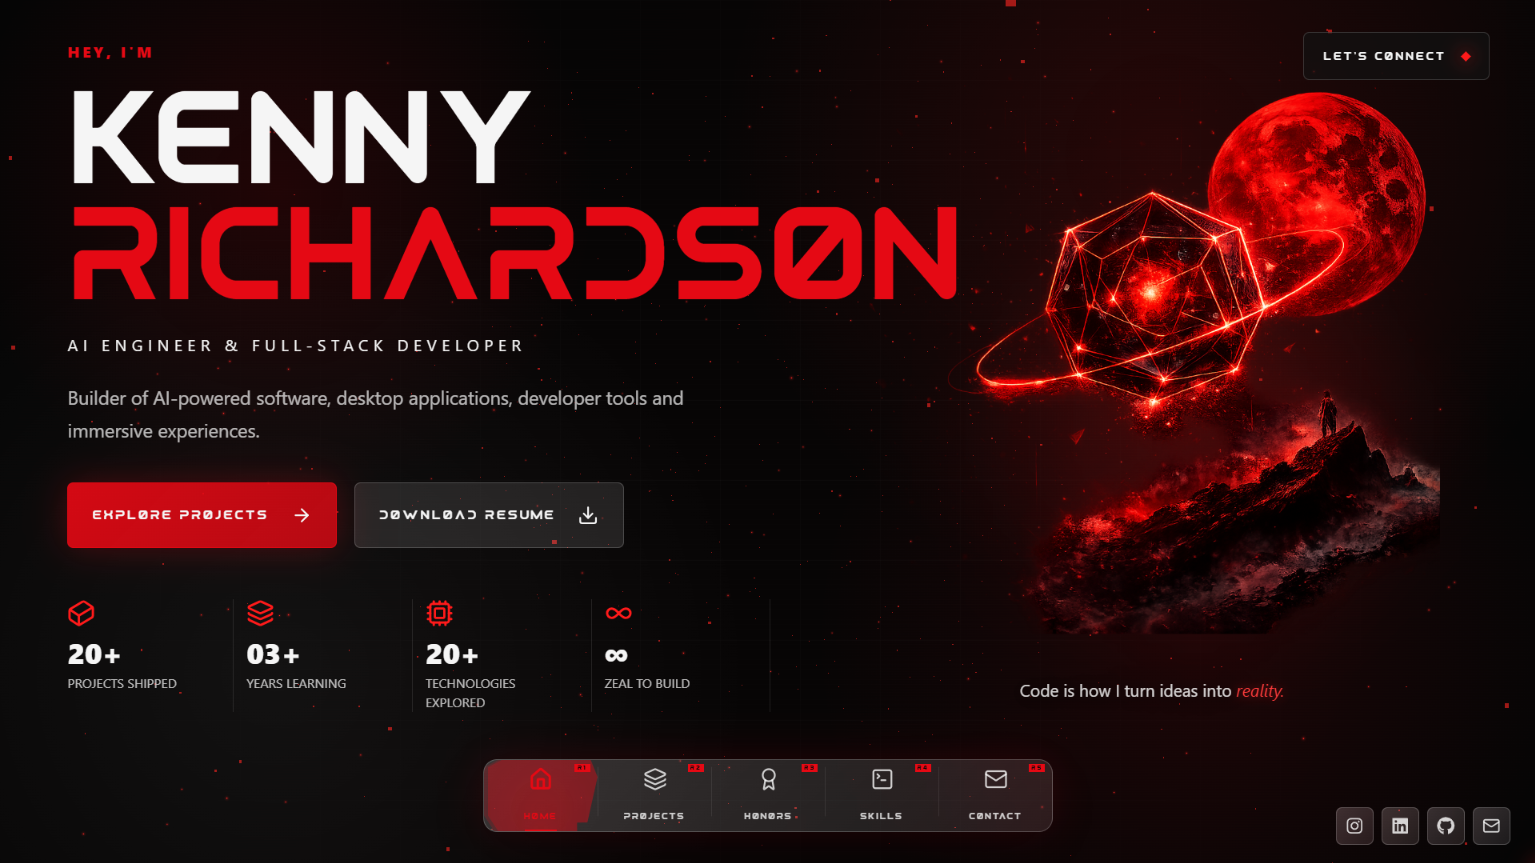
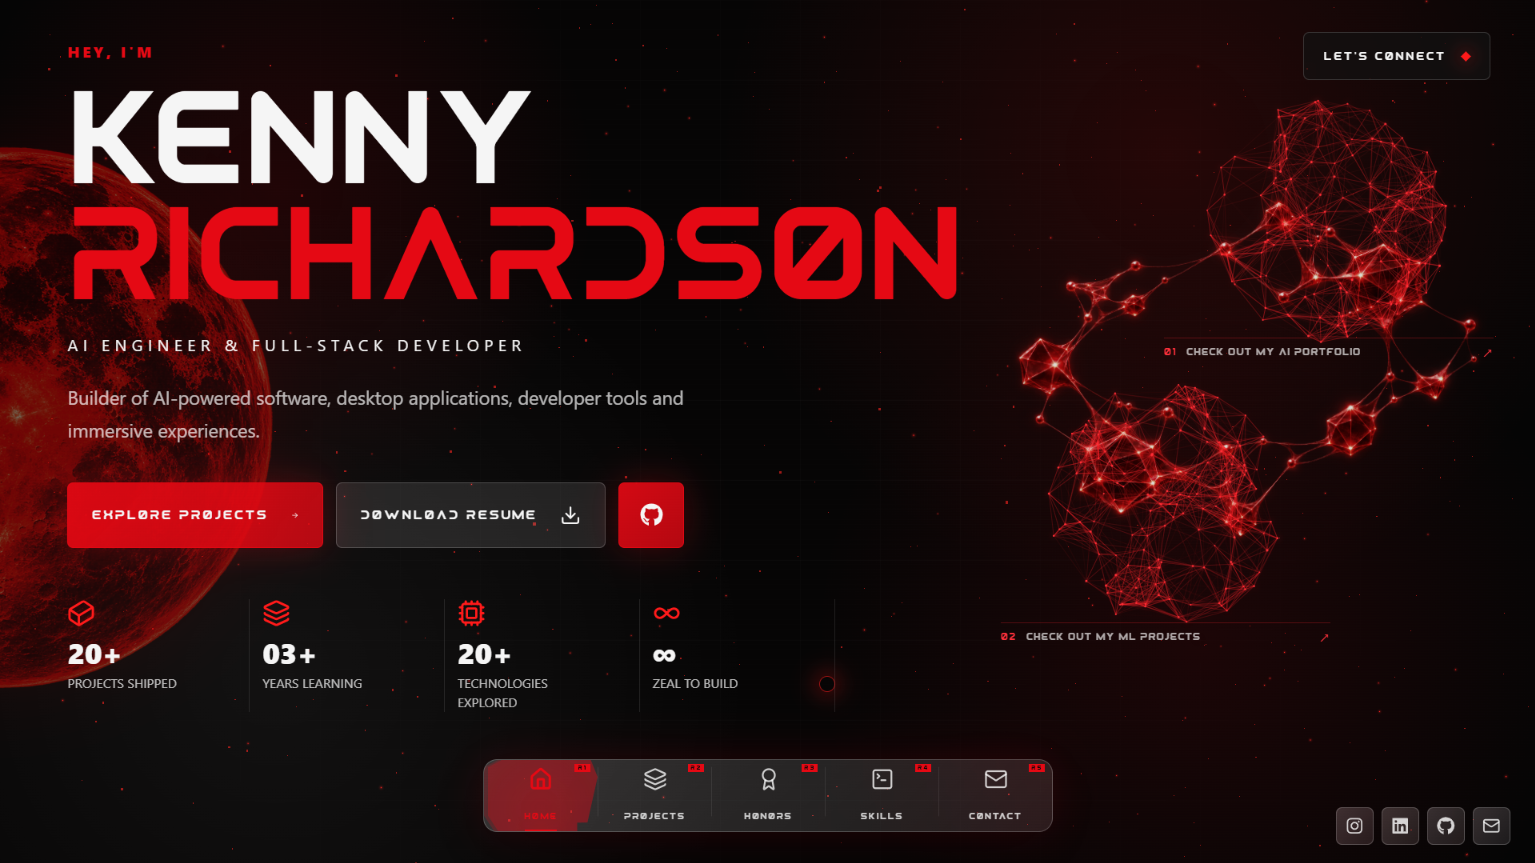
feat(ui): overhaul

diff --git a/src/pages/Nexus.tsx b/src/pages/Nexus.tsx
@@ -5,6 +5,7 @@ import { ShuffleText } from "../components/ShuffleText";
 import type { PageId } from "../data/content";
 import { NeuralLink } from "../components/NeuralLink";
 import redMoon from "../assets/redmoon.png";
+import hero from "../assets/hero.png";
 
 const stats = [
   { value: "20+", label: "Projects shipped", icon: Cuboid },
@@ -67,7 +68,7 @@ export function Home({ onNavigate }: { onNavigate: (page: PageId) => void }) {
       >
         <img
           className="neural-links-backdrop"
-          src="src/assets/reference-hero.png"
+          src={hero}
           alt=""
           aria-hidden="true"
         />

diff --git a/src/styles.css b/src/styles.css
@@ -2840,7 +2840,7 @@ height:45%;
   pointer-events: none;
   user-select: none;
 
-  width: clamp(22rem, 38vw, 36rem);
+  width: clamp(22rem, 41vw, 39rem);
   max-width: none;
   height: auto;
 
